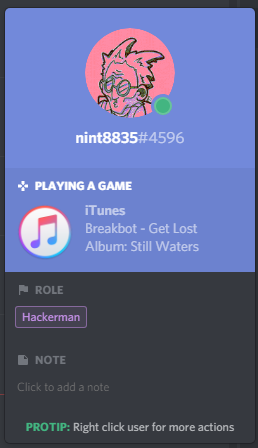
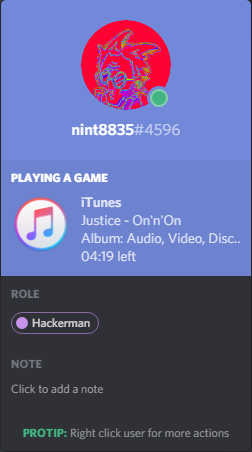
Added playing duration information

diff --git a/Properties/Resources.Designer.cs b/Properties/Resources.Designer.cs
@@ -9,8 +9,9 @@
 //------------------------------------------------------------------------------
 
 namespace iTunesRichPresence.Properties {
-
-
+    using System;
+    
+    
     /// <summary>
     ///   A strongly-typed resource class, for looking up localized strings, etc.
     /// </summary>
@@ -22,44 +23,39 @@ namespace iTunesRichPresence.Properties {
     [global::System.Diagnostics.DebuggerNonUserCodeAttribute()]
     [global::System.Runtime.CompilerServices.CompilerGeneratedAttribute()]
     internal class Resources {
-
+        
         private static global::System.Resources.ResourceManager resourceMan;
-
+        
         private static global::System.Globalization.CultureInfo resourceCulture;
-
+        
         [global::System.Diagnostics.CodeAnalysis.SuppressMessageAttribute("Microsoft.Performance", "CA1811:AvoidUncalledPrivateCode")]
         internal Resources() {
         }
-
+        
         /// <summary>
         ///   Returns the cached ResourceManager instance used by this class.
         /// </summary>
         [global::System.ComponentModel.EditorBrowsableAttribute(global::System.ComponentModel.EditorBrowsableState.Advanced)]
-        internal static global::System.Resources.ResourceManager ResourceManager
-        {
-            get
-            {
-                if ((resourceMan == null)) {
+        internal static global::System.Resources.ResourceManager ResourceManager {
+            get {
+                if (object.ReferenceEquals(resourceMan, null)) {
                     global::System.Resources.ResourceManager temp = new global::System.Resources.ResourceManager("iTunesRichPresence.Properties.Resources", typeof(Resources).Assembly);
                     resourceMan = temp;
                 }
                 return resourceMan;
             }
         }
-
+        
         /// <summary>
         ///   Overrides the current thread's CurrentUICulture property for all
         ///   resource lookups using this strongly typed resource class.
         /// </summary>
         [global::System.ComponentModel.EditorBrowsableAttribute(global::System.ComponentModel.EditorBrowsableState.Advanced)]
-        internal static global::System.Globalization.CultureInfo Culture
-        {
-            get
-            {
+        internal static global::System.Globalization.CultureInfo Culture {
+            get {
                 return resourceCulture;
             }
-            set
-            {
+            set {
                 resourceCulture = value;
             }
         }

diff --git a/Properties/Settings.Designer.cs b/Properties/Settings.Designer.cs
@@ -9,18 +9,16 @@
 //------------------------------------------------------------------------------
 
 namespace iTunesRichPresence.Properties {
-
-
+    
+    
     [global::System.Runtime.CompilerServices.CompilerGeneratedAttribute()]
-    [global::System.CodeDom.Compiler.GeneratedCodeAttribute("Microsoft.VisualStudio.Editors.SettingsDesigner.SettingsSingleFileGenerator", "11.0.0.0")]
+    [global::System.CodeDom.Compiler.GeneratedCodeAttribute("Microsoft.VisualStudio.Editors.SettingsDesigner.SettingsSingleFileGenerator", "15.1.0.0")]
     internal sealed partial class Settings : global::System.Configuration.ApplicationSettingsBase {
-
+        
         private static Settings defaultInstance = ((Settings)(global::System.Configuration.ApplicationSettingsBase.Synchronized(new Settings())));
-
-        public static Settings Default
-        {
-            get
-            {
+        
+        public static Settings Default {
+            get {
                 return defaultInstance;
             }
         }

diff --git a/MainForm.cs b/MainForm.cs
@@ -61,6 +61,9 @@ namespace iTunesRichPresence {
             if (_currentState != ITPlayerState.ITPlayerStatePlaying) {
                 presence.state = "Paused";
             }
+
+            presence.startTimestamp = DateTimeOffset.Now.ToUnixTimeSeconds() - _iTunes.PlayerPosition;
+            presence.endTimestamp = DateTimeOffset.Now.ToUnixTimeSeconds() + (_iTunes.CurrentTrack.Duration - _iTunes.PlayerPosition);
             
             DiscordRPC.Discord_UpdatePresence(ref presence);
         }
@@ -71,6 +74,7 @@ namespace iTunesRichPresence {
             _currentArtist = _iTunes.CurrentTrack.Artist;
             _currentTitle = _iTunes.CurrentTrack.Name;
             _currentState = _iTunes.PlayerState;
+            
             UpdatePresence();
         }
     }

diff --git a/Properties/AssemblyInfo.cs b/Properties/AssemblyInfo.cs
@@ -32,5 +32,5 @@ using System.Runtime.InteropServices;
 // You can specify all the values or you can default the Build and Revision Numbers
 // by using the '*' as shown below:
 // [assembly: AssemblyVersion("1.0.*")]
-[assembly: AssemblyVersion("1.0.0.0")]
+[assembly: AssemblyVersion("1.1.0.0")]
 [assembly: AssemblyFileVersion("1.0.0.0")]

diff --git a/MainForm.Designer.cs b/MainForm.Designer.cs
@@ -40,7 +40,7 @@
             // 
             // pollTimer
             // 
-            this.pollTimer.Interval = 5000;
+            this.pollTimer.Interval = 15000;
             this.pollTimer.Tick += new System.EventHandler(this.pollTimer_Tick);
             // 
             // MainForm

diff --git a/README.md b/README.md
@@ -2,6 +2,8 @@
 
 ![Example](example.png)
 
+![Profile Example](example_profile.png)
+
 ## Usage
 * Download latest release from [releases page](https://github.com/nint8835/iTunesRichPresence/releases)
 * Extract the zip file
